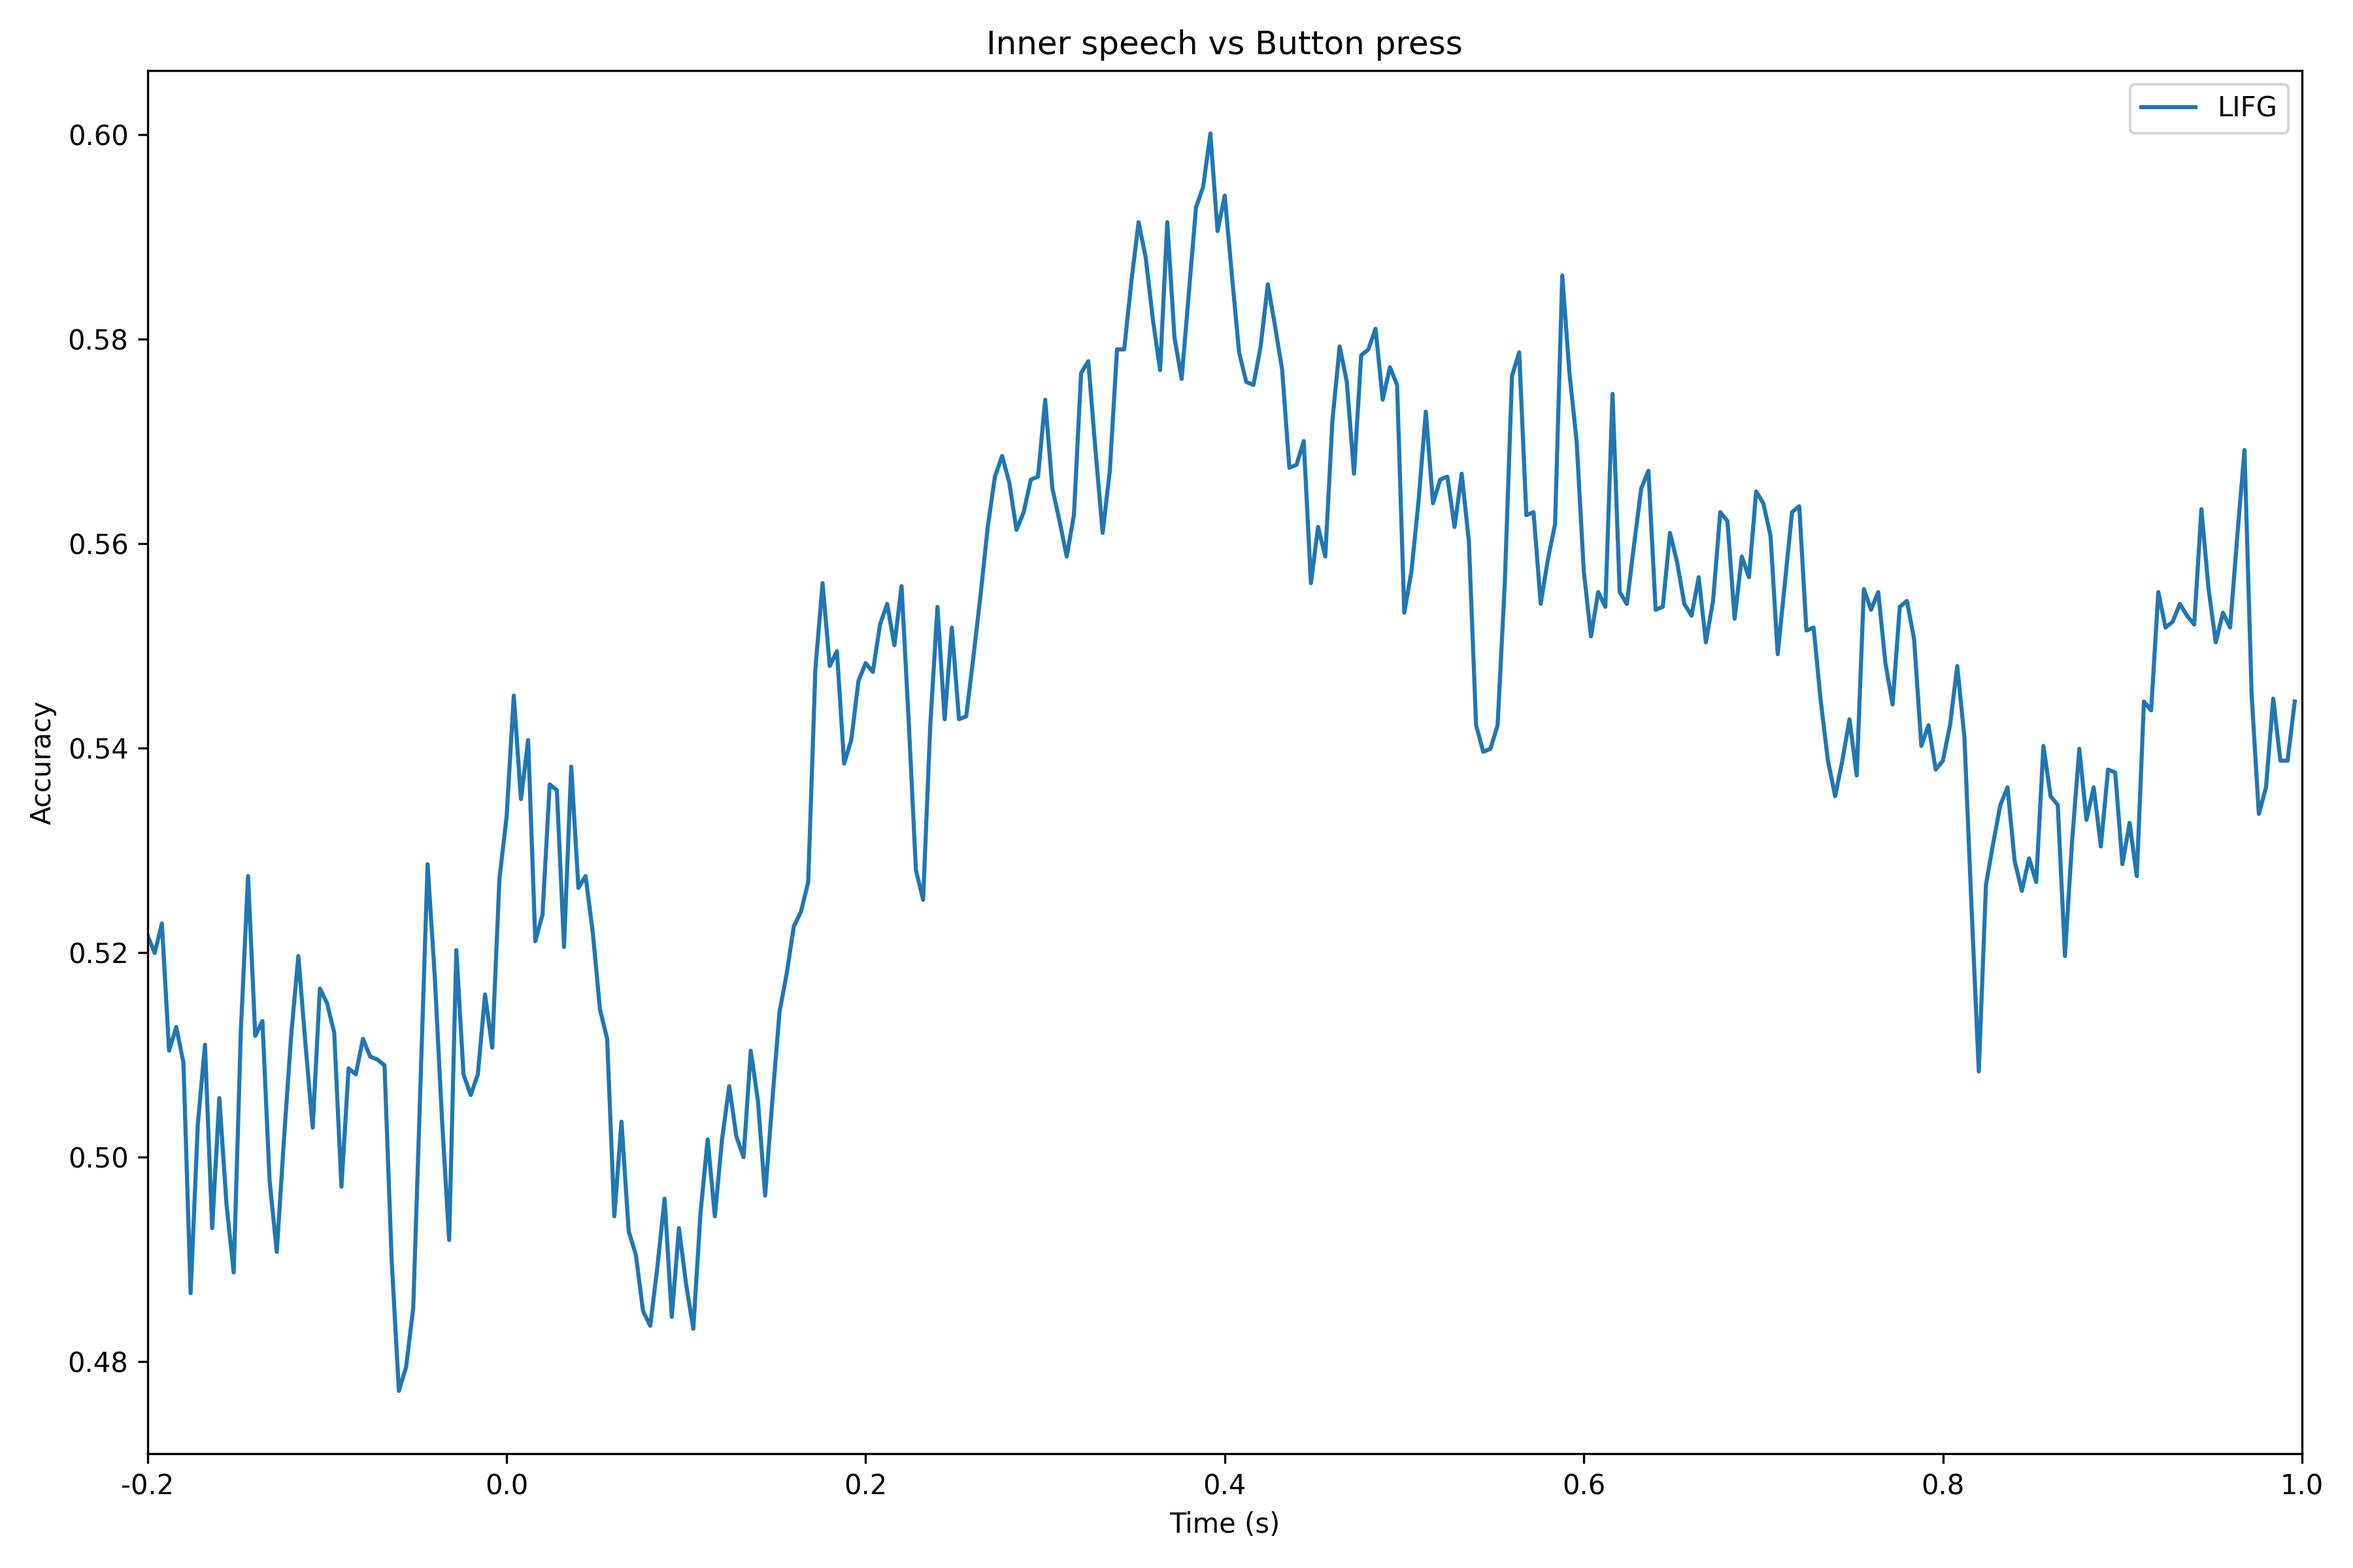
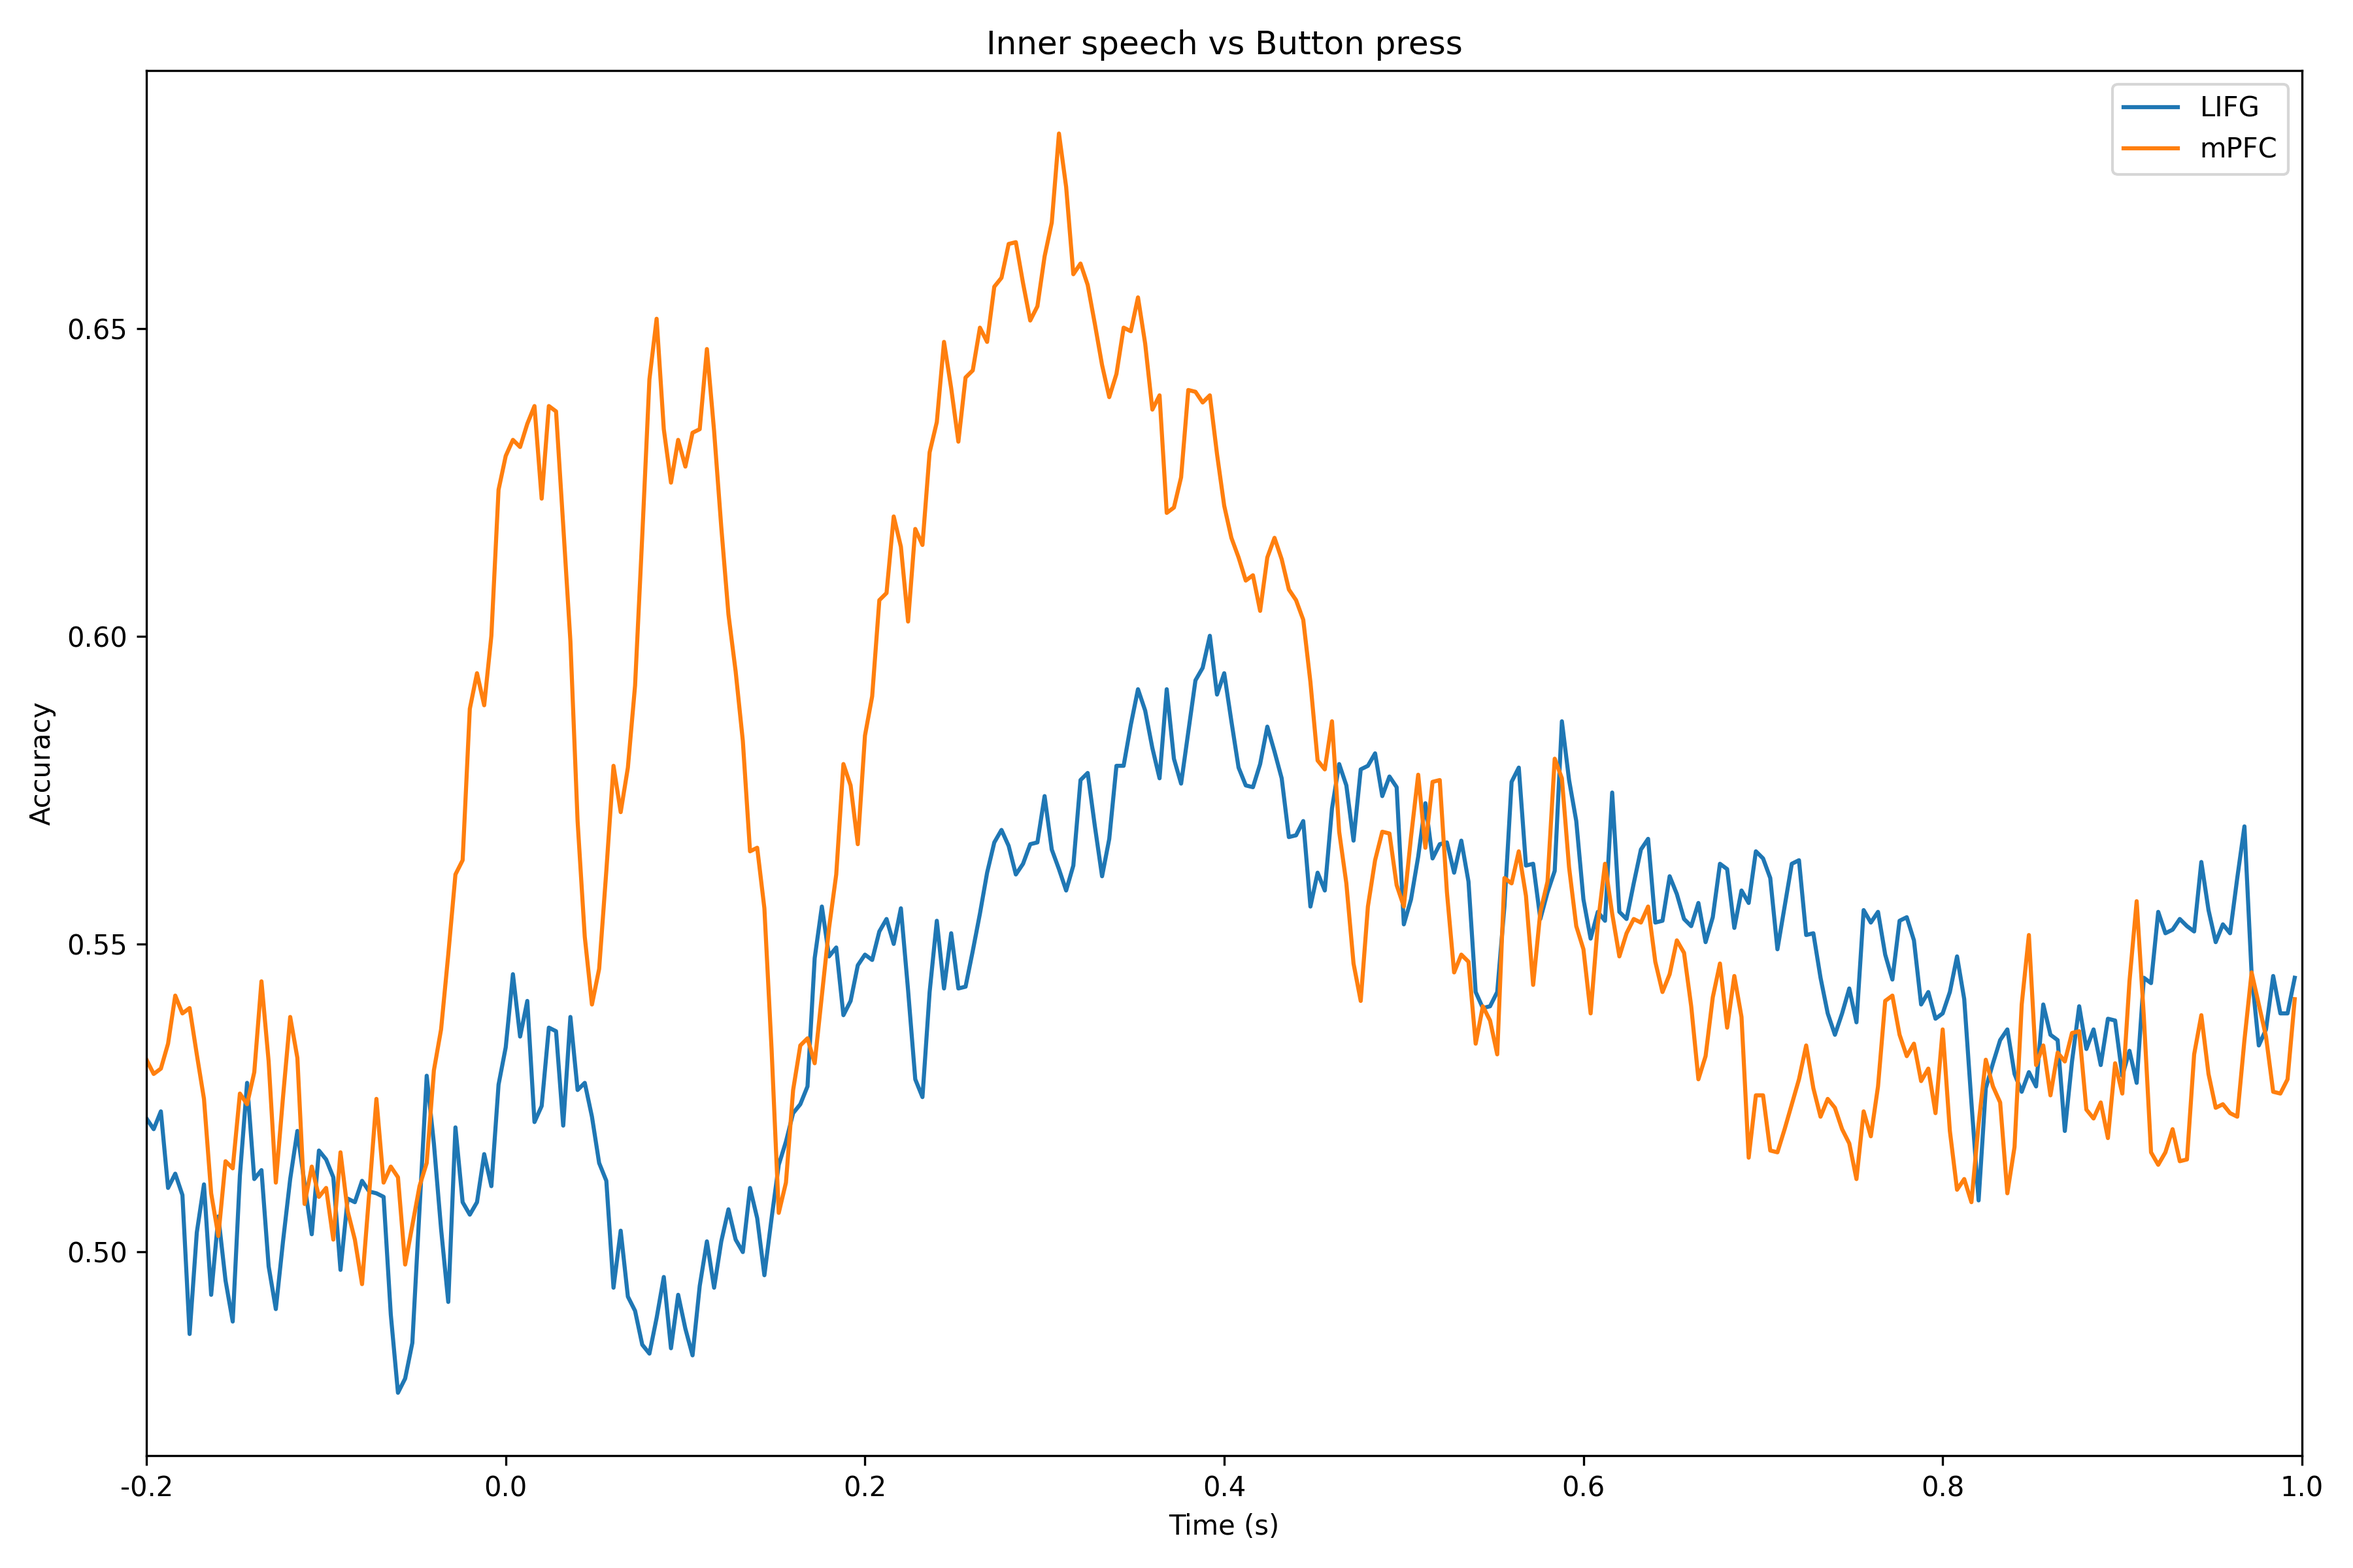
upload button press results

diff --git a/decoding/plot_results.py b/decoding/plot_results.py
@@ -180,11 +180,11 @@ if __name__ in "__main__":
 
     # plot button press vs inner speech
     acc_buttonpress_lifg = np.load(results_path / f"across_subjects_innerspeech_buttonpress_area_LIFG_150.npy")
-    #acc_buttonpress_mpfc = np.load(results_path / f"across_subjects_innerspeech_buttonpress_area_mPFC_150.npy")
+    acc_buttonpress_mpfc = np.load(results_path / f"across_subjects_innerspeech_buttonpress_area_mPFC_150.npy")
 
     fig, ax = plt.subplots(1, 1, figsize = (12, 8), dpi = 300, sharey=True)
     
-    for acc, area in zip([acc_buttonpress_lifg], ["LIFG"]):#, acc_buttonpress_mpfc]: mPFC
+    for acc, area in zip([acc_buttonpress_lifg, acc_buttonpress_mpfc], ["LIFG", "mPFC"]):
         # get the average
         average = np.average(acc, axis = 0)
 
